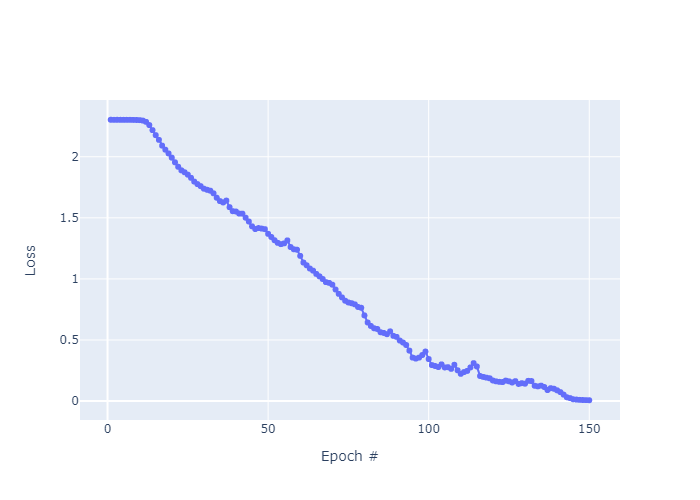
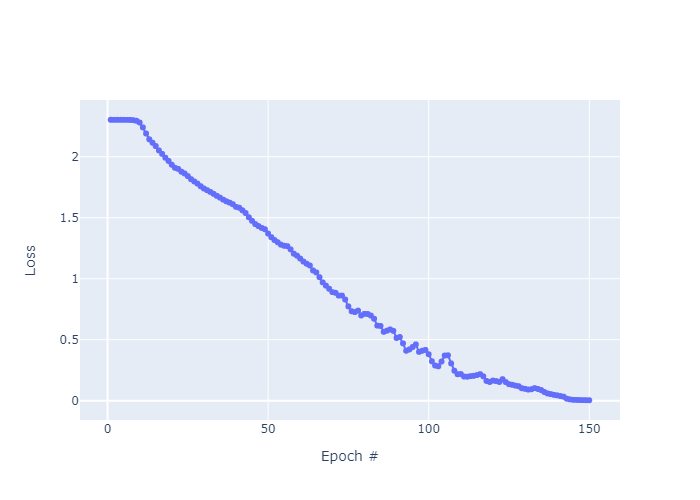
added implementation for experiment 3

diff --git a/HW4/dataset.py b/HW4/dataset.py
@@ -2,22 +2,15 @@ import torch
 from torchvision import datasets, transforms
 from torch.utils.data import DataLoader, Subset, Dataset
 
+preprocess = transforms.Compose([
+        transforms.ToTensor(),
+        transforms.Normalize(mean=[0.485, 0.456, 0.406], std=[0.229, 0.224, 0.225]),
+    ])
 
 def get_cifar_dls(batch_size=128):
-    # taken from https://pytorch.org/hub/pytorch_vision_inception_v3/
-    # preprocess = transforms.Compose([
-    #     transforms.Resize(299),
-    #     transforms.CenterCrop(299),
-    #     transforms.ToTensor(),
-    #     transforms.Normalize(mean=[0.485, 0.456, 0.406], std=[0.229, 0.224, 0.225]),
-    # ])
-
-    # train_set = datasets.CIFAR10("./data", train=True, download=True, transform=preprocess)
-    # test_set = datasets.CIFAR10("./data", train=False, download=True, transform=preprocess)
-
-    train_set = datasets.CIFAR10("./data", train=True, download=True, transform=transforms.ToTensor())
+    train_set = datasets.CIFAR10("./data", train=True, download=True, transform=preprocess)
     train_set = Subset(train_set, range(5000))
-    test_set = datasets.CIFAR10("./data", train=False, download=True, transform=transforms.ToTensor())
+    test_set = datasets.CIFAR10("./data", train=False, download=True, transform=preprocess)
     test_set = Subset(test_set, range(1000))
 
     train_loader = DataLoader(train_set, batch_size=batch_size, shuffle=False)
@@ -49,19 +42,34 @@ def get_random_dl(batch_size=128):
 
 
 def get_half_random_dls(batch_size=128):
-    cifar_set = datasets.CIFAR10("./data", train=True, download=True, transform=transforms.ToTensor())
+    cifar_set = datasets.CIFAR10("./data", train=True, download=True, transform=preprocess)
 
-    cifar_train_data = torch.tensor(cifar_set.data[:2500])
-    cifar_train_labels = torch.tensor(cifar_set.targets[:2500])
-    random_train_data = torch.rand((2500, 32, 32, 3))
-    random_train_labels = torch.randint(high=10, size=(2500, 1))
+    cifar_train_data = torch.tensor(cifar_set.data[:5000]).permute(0, 3, 1, 2)
+    cifar_train_labels = torch.tensor(cifar_set.targets[:5000])
+    random_train_data = torch.rand((5000, 3, 32, 32))
+    random_train_labels = torch.randint(high=10, size=(5000, 1)).view(-1)
 
-    train_data = torch.cat(cifar_train_data, random_train_data)
-    train_labels = torch.cat(cifar_train_labels, random_train_labels)
+    train_data = torch.cat((cifar_train_data, random_train_data))
+    train_labels = torch.cat((cifar_train_labels, random_train_labels))
 
     train_set = RandomDataset(train_data, train_labels)
 
-    test_set = datasets.CIFAR10("./data", train=False, download=True, transform=transforms.ToTensor())
+    test_set = datasets.CIFAR10("./data", train=False, download=True, transform=preprocess)
+    test_set = Subset(test_set, range(1000))
+
+    train_loader = DataLoader(train_set, batch_size=batch_size, shuffle=False)
+    test_loader = DataLoader(test_set, batch_size=batch_size, shuffle=False)
+
+    return train_loader, test_loader
+
+
+def get_adverserial_cifar_dls(batch_size=128):
+    train_set = datasets.CIFAR10("./data", train=True, download=True, transform=preprocess)
+    print(train_set.targets)
+    train_set.targets[:2500] = (train_set.targets[:2500] + 1) % 10
+    print(train_set.targets)
+    train_set = Subset(train_set, range(5000))
+    test_set = datasets.CIFAR10("./data", train=False, download=True, transform=preprocess)
     test_set = Subset(test_set, range(1000))
 
     train_loader = DataLoader(train_set, batch_size=batch_size, shuffle=False)

diff --git a/HW4/experiments.py b/HW4/experiments.py
@@ -11,7 +11,7 @@ from plotting import plot_result
 device = torch.device('cuda' if torch.cuda.is_available() else 'cpu')
 
 
-def exp_1(num_epochs=100, lr=0.0001):
+def exp_1(num_epochs=100, lr=0.00005):
     train_dl, test_dl = get_cifar_dls()
     criterion = nn.CrossEntropyLoss()
     model = CIFARNet()
@@ -48,7 +48,7 @@ def exp_2(num_epochs=150, lr=0.001):
     plot_result({"Train": train_losses}, metric="loss", title="train_loss_random_data")
 
 
-def exp_3(num_epochs=100, lr=0.0001):
+def exp_3(num_epochs=100, lr=0.00033):
     train_dl, test_dl = get_half_random_dls()
     criterion = nn.CrossEntropyLoss()
     model = CIFARNet()
@@ -65,8 +65,24 @@ def exp_3(num_epochs=100, lr=0.0001):
         train_losses.append(train_loss)
         test_losses.append(test_loss)
 
-    plot_result({"Train": train_losses, "Test": test_losses}, metric="loss", title="train_test_loss_gap")
+    plot_result({"Train": train_losses, "Test": test_losses}, metric="loss", title="generalization_half_random")
 
 
-def exp_4():
-    pass
+def exp_4(num_epochs=100, lr=0.00033):
+    train_dl, test_dl = get_adverserial_cifar_dls()
+    criterion = nn.CrossEntropyLoss()
+    model = CIFARNet()
+    model.to(device)
+    print("Number of parameters in model:", sum(p.numel() for p in model.parameters() if p.requires_grad))
+    optimizer = torch.optim.Adam(model.parameters(), lr=lr)
+    train_losses = []
+    test_losses = []
+    t = trange(num_epochs)
+    for epoch in t:
+        train_loss = train_epoch(criterion=criterion, net=model, optim=optimizer, train_loader=train_dl)
+        test_loss = test_epoch(criterion=criterion, net=model, test_loader=test_dl)
+        t.set_postfix_str(f"train loss={round(train_loss, 3)}, test loss={round(test_loss, 3)}")
+        train_losses.append(train_loss)
+        test_losses.append(test_loss)
+
+    plot_result({"Train": train_losses, "Test": test_losses}, metric="loss", title="generalization_half_adversarial")

diff --git a/HW4/main.py b/HW4/main.py
@@ -7,10 +7,16 @@ device = torch.device('cuda' if torch.cuda.is_available() else 'cpu')
 def main():
     torch.manual_seed(0)
 
+    # outputs train_test_loss_gap.png
     # exp_1()
 
-    exp_2()
+    # outputs train_loss_random_data.png
+    # exp_2()
 
+    # outputs generalization_half_random.png
+    # exp_3()
+
+    exp_4()
 
 if __name__ == '__main__':
     main()
